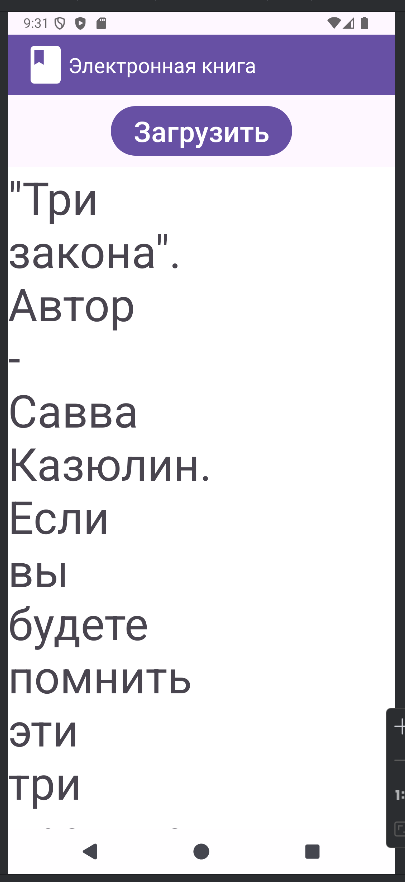
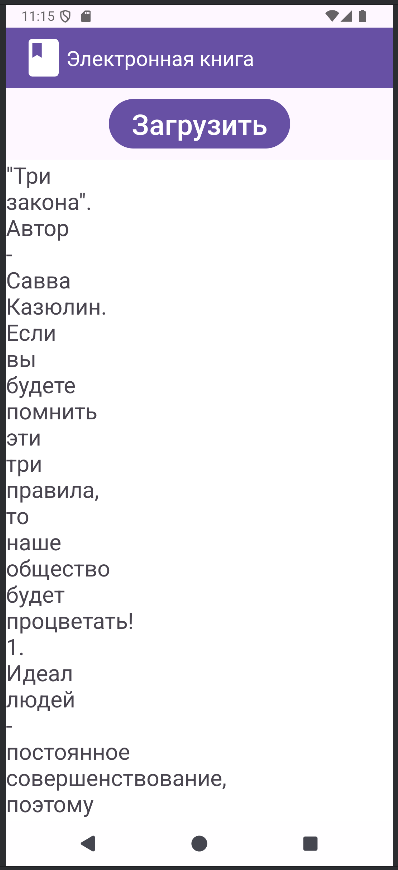
Домашнее задание по теме "RelativeLayout ToggleButton ScrollView"

Changed region(s): [[0.0, 0.0, 1.0, 1.0], [0.4221, 0.7448, 0.4824, 0.8069], [0.392, 0.2483, 0.4221, 0.2793]]

diff --git a/RelativeLayoutToggleButtonScrollView/app/src/main/java/com/example/relativelayouttogglebuttonscrollview/MainActivity.kt b/RelativeLayoutToggleButtonScrollView/app/src/main/java/com/example/relativelayouttogglebuttonscrollview/MainActivity.kt
@@ -48,10 +48,3 @@ class MainActivity : AppCompatActivity(), View.OnClickListener {
 fun loadBook(text: String): List<String>{
     return text.split(" ").toList()
 }
-class Database{
-    val story = "\"Три закона\". Автор - Савва Казюлин. " +
-            "Если вы будете помнить эти три правила, то наше общество будет процветать! " +
-            "1. Идеал людей - постоянное совершенствование, поэтому любое общество, в котором есть люди, обречено на мутацию и разрушение. " +
-            "2. Некоторые из людей владеют навыками программирования. " +
-            "3. Если вы подозреваете в собеседнике человека, то киньте репорт в полицию и перезагрузитесь. "
-}

diff --git a/RelativeLayoutToggleButtonScrollView/README.md b/RelativeLayoutToggleButtonScrollView/README.md
@@ -1,5 +1,7 @@
 ![activity_main.xml](app/src/main/res/layout/activity_main.xml)
+
 ![MainActivity.kt](app/src/main/java/com/example/relativelayouttogglebuttonscrollview/MainActivity.kt)
 
 ![book1](images/book1.png)
 ![book2](images/book2.png)
+![book3](images/book3.png)
